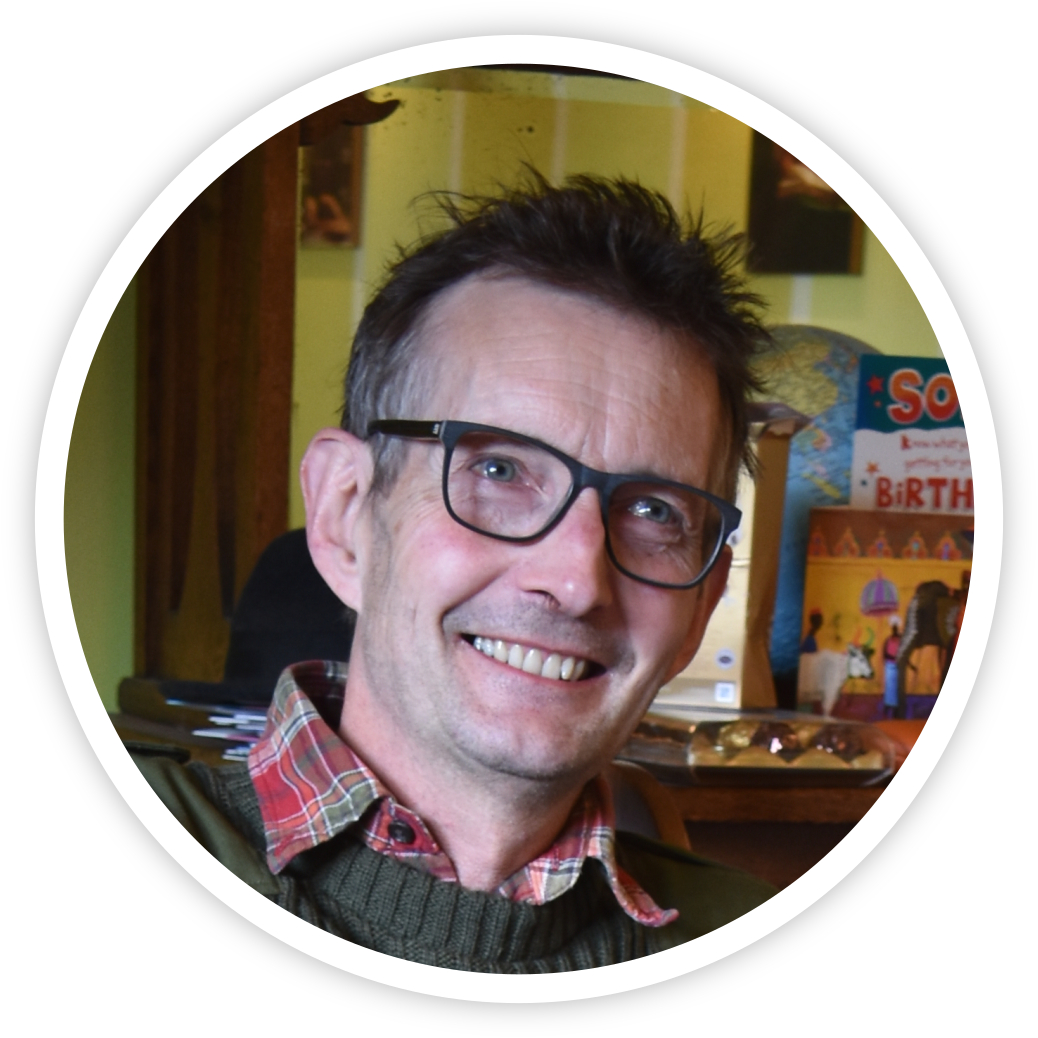
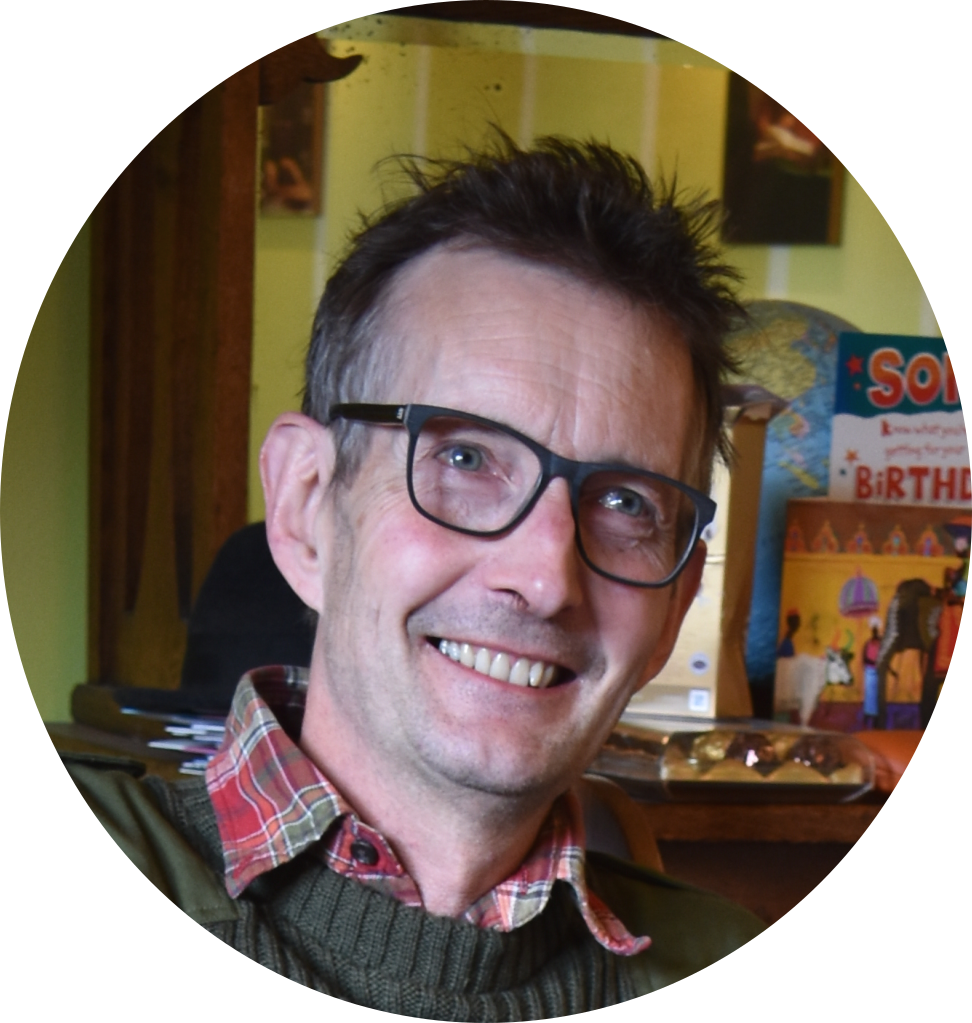
Added canvas columns

diff --git a/rpcanvas.js b/rpcanvas.js
@@ -1,0 +1,52 @@
+var canvas = document.querySelector('canvas');
+
+canvas.width = window.innerWidth;
+canvas.height = window.innerHeight;
+canvas.style.position = "fixed";
+var ctx = canvas.getContext('2d');
+
+function resizeCanvas(){
+    canvas.width = window.innerWidth;
+    canvas.height = window.innerHeight;
+    var p1 = new Parallelogram([0,0], window.innerHeight*0.95, window.innerWidth*0.2, 78, 15, 0.45);
+    p1.start = [-p1.xoffset, canvas.height+p1.yoffset];
+    var p2 = new Parallelogram([0,0], window.innerHeight*0.9, window.innerWidth*0.08, 78, 15, 0.26);
+    p2.start = [window.innerWidth*0.115, canvas.height+(1.1 * p2.yoffset)];
+
+    p1.draw();
+    p2.draw();
+}
+
+function Parallelogram(start, height, width, angle1Deg, angle2Deg, fadeHeight){
+    this.angle1Rad = (angle1Deg * Math.PI)/180;
+    this.angle2Rad = (angle2Deg * Math.PI)/180;
+    this.xoffset = height / Math.tan(this.angle1Rad);
+    this.yoffset = width * Math.tan(this.angle2Rad);
+    this.start = start;
+    this.height = height;
+    this.width = width;
+    this.fadeHeight = fadeHeight;
+
+    this.draw = function(){
+        var grd=ctx.createLinearGradient(this.start[0], this.start[1],this.start[0]+this.xoffset+this.width, this.start[1]-this.height-this.yoffset);
+        grd.addColorStop(this.fadeHeight,"rgba(255, 255, 255, 0)");
+        grd.addColorStop(1,"rgba(255, 255, 255, 0.3)");
+        ctx.fillStyle = grd;
+        ctx.beginPath();
+        ctx.moveTo(this.start[0], this.start[1]);
+        ctx.lineTo(this.start[0]+this.xoffset, this.start[1]-this.height);
+        ctx.lineTo(this.start[0]+this.xoffset+this.width, this.start[1]-this.height-this.yoffset);
+        ctx.lineTo(this.start[0]+this.width, this.start[1]-this.yoffset);
+        ctx.closePath();
+        ctx.fill();
+    }   
+
+};
+
+var p1 = new Parallelogram([0,0], window.innerHeight*0.95, window.innerWidth*0.2, 78, 15, 0.45);
+p1.start = [-p1.xoffset, canvas.height+p1.yoffset];
+var p2 = new Parallelogram([0,0], window.innerHeight*0.9, window.innerWidth*0.08, 78, 15, 0.26);
+p2.start = [window.innerWidth*0.115, canvas.height+(1.1 * p2.yoffset)];
+
+p1.draw();
+p2.draw();

diff --git a/index.html b/index.html
@@ -10,7 +10,7 @@
   <link rel="stylesheet" href="https://cdnjs.cloudflare.com/ajax/libs/font-awesome/4.7.0/css/font-awesome.min.css">
   <title>Robert Pooley Maths Coach</title>
 </head>
-<body>
+<body onresize="resizeCanvas()">
 
     <nav>
         <a href="#"><img src="Images/logo_1.svg" alt="Robert Pooley Maths Coach"></a>
@@ -22,9 +22,10 @@
         </ul>
     </nav>
 
+    <canvas>Your browser does not support canvas elements</canvas>
 
     <div class="panel">
-            <img id="robert_photo" src="Images/Robert.png" alt="Photo of Robert">
+            <img id="robert_photo" src="Images/Robert.jpg" alt="Photo of Robert">
         <div>
             <h1>Hello There! I'm Robert — <br> &nbsp a Maths Tutor in Devon</h1>
             <ul>
@@ -43,6 +44,6 @@
         </div>
     </div>
 
-
+    <script src="rpcanvas.js"></script>
 </body>
 </html>

diff --git a/style.css b/style.css
@@ -52,37 +52,38 @@ nav li{
     font-weight: bold;
 }
 
+
 .panel{
     width:100%;
-    padding-top: 70px;
+    padding-top: 5%;
+    position: absolute;
     display: flex;
     flex-wrap: wrap;
     justify-content: center;
+    align-items: center;
 }
 
 .panel ul{
-    width:36vw;
+    width:45vw;
     list-style-type: none;
 }
 
 .panel h1{
-    width: 240px;
-    font-size: 20px;
+    font-size: 20pt;
     font-weight: normal;
-    margin:0;
 }
 
 .panel li {
-	margin: 0;
 	padding: 30px 0 0 70px;
-	background-position: 7% 100%;
-    background-size: 35px;
     position: relative;
 }
 
 #robert_photo{
-    height: 400px;
-    width:auto;
+    height: 300px;
+    margin-top: 60px;
+    border-radius: 50%;
+    border: 5px solid white;
+    box-shadow: 0 0 40px -5px rgb(0, 0, 0); 
 }
 
 
